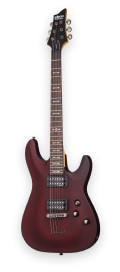
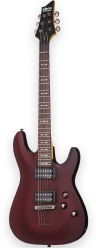
Правки

Changed region(s): [[0.0625, 0.0, 0.9375, 1.0]]

diff --git a/src/components/cards-item/cards-item.jsx b/src/components/cards-item/cards-item.jsx
@@ -4,30 +4,36 @@ import {connect} from 'react-redux';
 import {ReactComponent as StarIcon} from '../../assets/img/svg/icon-star.svg';
 import {ReactComponent as ButtonIcon} from '../../assets/img/svg/icon-cart-button.svg';
 import {guitarImg} from '../../prop-types/prop-types';
-import {splittingDigits} from '../../utils';
 import {setChangeProductModalOpen} from '../../store/action';
+import {splittingDigits} from '../../utils';
+import {RATING_STARS} from '../../const';
 
 const CardsItem = ({id, name, comments, price, img, openModal}) => {
   return (
     <li className="cards__item">
-      <img className="cards__img" src={img.big} width="68" height="190" alt="Гитара"/>
+      <picture>
+        <source
+          type="image/webp"
+          srcSet={`${img.webp} 1x, ${img.webpRetina} 2x`}
+        />
+        <img
+          className="cards__img"
+          src={img.big}
+          srcSet={`${img.retinaBig} 2x`}
+          width="68"
+          height="190"
+          alt={name}
+        />
+      </picture>
       <div className="cards__rating rating">
         <ul className="rating__list">
-          <li className="rating__item">
-            <StarIcon />
-          </li>
-          <li className="rating__item">
-            <StarIcon />
-          </li>
-          <li className="rating__item">
-            <StarIcon />
-          </li>
-          <li className="rating__item">
-            <StarIcon />
-          </li>
-          <li className="rating__item">
-            <StarIcon />
-          </li>
+          {
+            RATING_STARS.map((item) =>
+              <li className="rating__item" key={item}>
+                <StarIcon />
+              </li>
+            )
+          }
         </ul>
         <span className="rating__counter">{comments}</span>
       </div>

diff --git a/src/components/change-product/change-product.jsx b/src/components/change-product/change-product.jsx
@@ -46,8 +46,21 @@ const ChangeProduct = ({isAdd, currentCard, basketData, closeModal, addToBasket,
       title={isAdd ? `Добавить товар в корзину` : `Удалить этот товар?`}
       onModalClose={closeModal}
     >
-      <div className="change-product__wrapper">
-        <img className="change-product__img" src={img.small} width="48" height="124" alt="Гитара"/>
+      <div className="change-product">
+        <picture>
+          <source
+            type="image/webp"
+            srcSet={`${img.webpSmall} 1x, ${img.webpRetinaSmall} 2x`}
+          />
+          <img
+            className="change-product__img"
+            src={img.small}
+            srcSet={`${img.retinaSmall} 2x`}
+            width="48"
+            height="124"
+            alt={name}
+          />
+        </picture>
         <div className="change-product__details-wrapper">
           <p className="change-product__name">{getUppercaseText(name)}</p>
           <p className="change-product__description">Артикул: {vendorCode}</p>

diff --git a/src/components/basket-item/basket-item.jsx b/src/components/basket-item/basket-item.jsx
@@ -27,9 +27,22 @@ const BasketItem = ({id, vendorCode, name, type, strings, price, img, amount, op
       >
         <CloseIcon />
       </button>
-      <img className="basket__img" src={img.small} width="48" height="124" alt="Гитара"/>
+      <picture>
+        <source
+          type="image/webp"
+          srcSet={`${img.webpSmall} 1x, ${img.webpRetinaSmall} 2x`}
+        />
+        <img
+          className="basket__img"
+          src={img.small}
+          srcSet={`${img.retinaSmall} 2x`}
+          width="48"
+          height="124"
+          alt={name}
+        />
+      </picture>
       <div className="basket__description-wrapper">
-        <h3 className="basket__title">{getUppercaseText(type)} {getUppercaseText(name)}</h3>
+        <h2 className="basket__title">{getUppercaseText(type)} {getUppercaseText(name)}</h2>
         <span className="basket__description">Артикул: {vendorCode}</span>
         <span className="basket__description">{capitalizeFirstLetter(type)}, {strings} струнная</span>
       </div>

diff --git a/src/components/confirmation/confirmation.jsx b/src/components/confirmation/confirmation.jsx
@@ -9,7 +9,7 @@ import {AppRoute} from '../../const';
 const Confirmation = ({closeModal}) => {
   return (
     <ModalWrapper block={`Confirmation`} title={`Товар успешно добавлен в корзину`} onModalClose={closeModal}>
-      <div className="confirmation__wrapper">
+      <div className="confirmation">
         <Link
           to={AppRoute.BASKET}
           className="confirmation__button confirmation__button--basket"

diff --git a/src/components/main/main.jsx b/src/components/main/main.jsx
@@ -24,7 +24,7 @@ const Main = ({title, children, pathname, modifier}) => {
   return (
     <main className={`main${modifier ? ` main--${modifier}` : ``}`}>
       <div className="main__wrapper container">
-        <h2 className="main__title">{title}</h2>
+        <h1 className="main__title">{title}</h1>
         <ul className="breadcrumb">
           {BREADCRUMB_LIST.map(({title, href}, index) => {
             if (!isActive) {

diff --git a/src/components/modal-wrapper/modal-wrapper.jsx b/src/components/modal-wrapper/modal-wrapper.jsx
@@ -18,7 +18,7 @@ const ModalWrapper = ({children, title, onModalClose}) => {
     <div className="modal" onClick={handleBlockClick}>
       <div className="modal__content">
         <div className="modal__wrapper">
-          <h3 className="modal__title">{title}</h3>
+          <h2 className="modal__title">{title}</h2>
           <button
             className="modal__button-close"
             type="button"

diff --git a/src/const.js b/src/const.js
@@ -3,6 +3,7 @@ import {ReactComponent as SearchIcon} from './assets/img/svg/icon-search.svg';
 import {ReactComponent as BasketIcon} from './assets/img/svg/icon-basket.svg';
 
 export const CARDS_PER_PAGE = 9;
+export const RATING_STARS = [1, 2, 3, 4, 5];
 
 export const AppRoute = {
   ROOT: `/`,

diff --git a/src/assets/scss/layout/confirmation.scss b/src/assets/scss/layout/confirmation.scss
@@ -1,4 +1,4 @@
-.confirmation__wrapper {
+.confirmation {
   display: flex;
   justify-content: space-between;
   padding: 41px 82px 22px 82px;

diff --git a/src/assets/scss/layout/change-product.scss b/src/assets/scss/layout/change-product.scss
@@ -1,4 +1,4 @@
-.change-product__wrapper {
+.change-product {
   display: flex;
   justify-content: space-between;
   align-items: flex-start;
